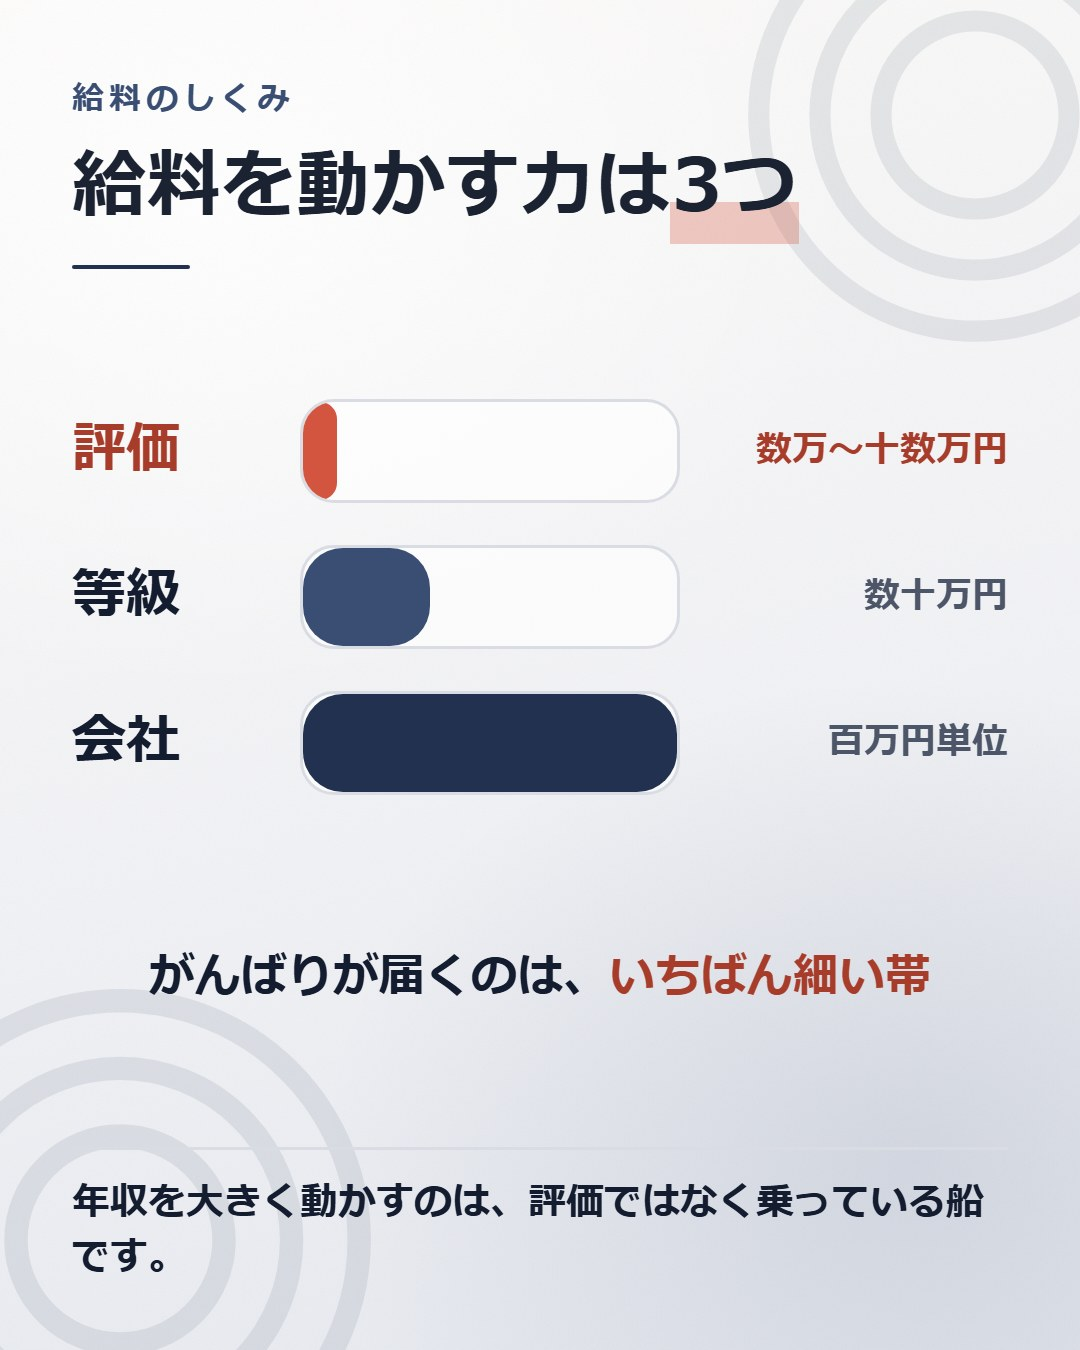
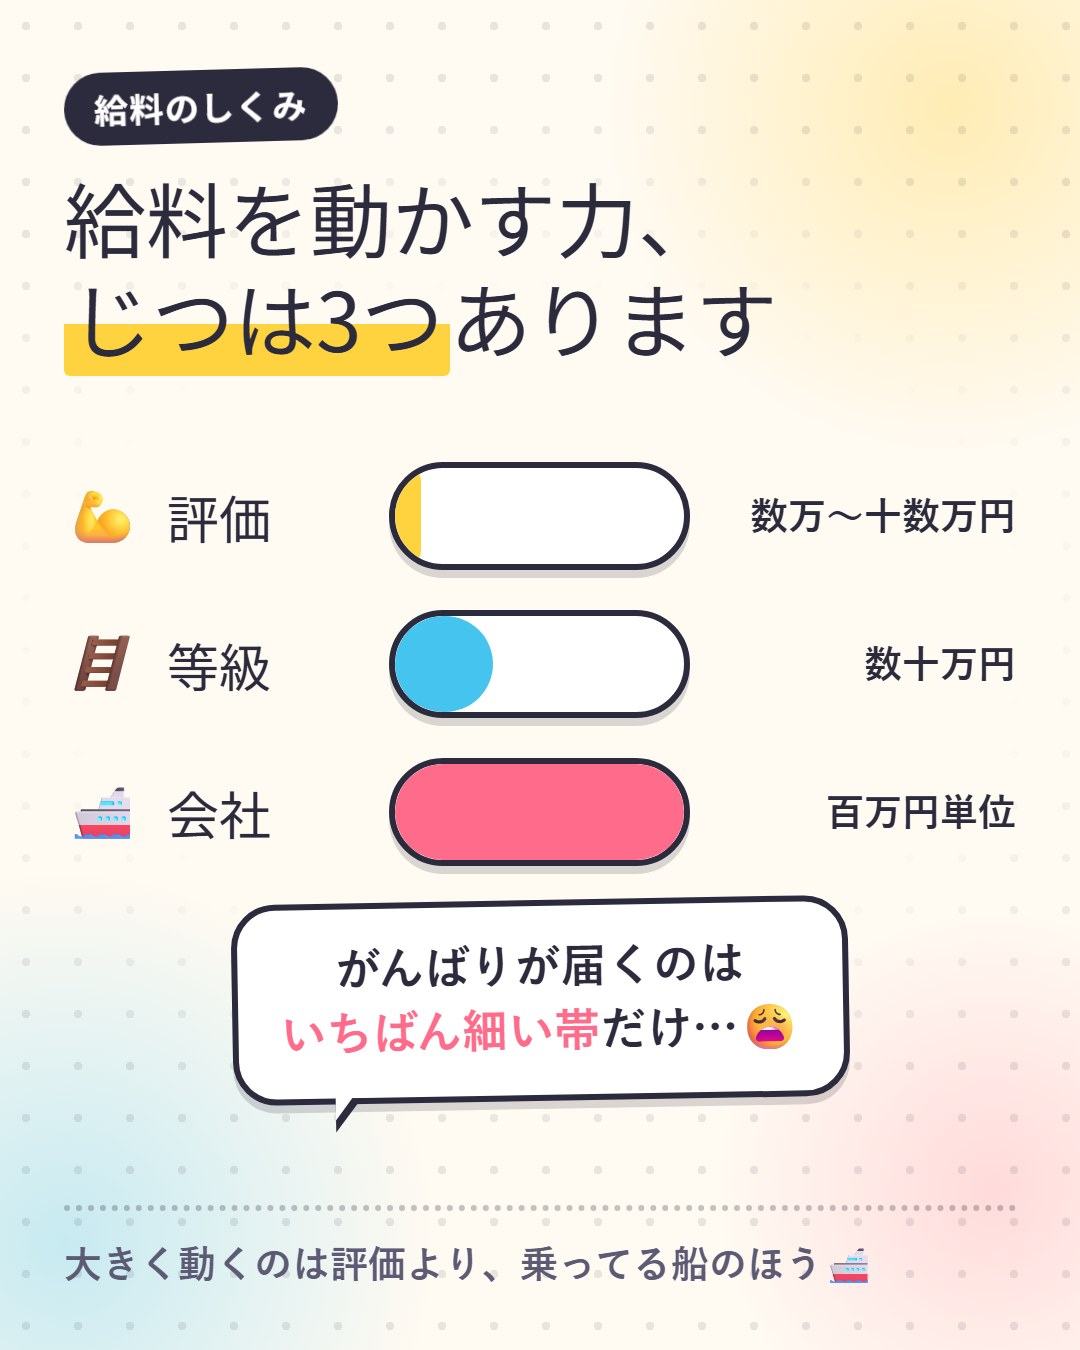
図解をポップ版に。記事の1枚目を「絵」、2枚目を「データ図」にした
本人指示（2026-09-28）
  「若者受けの良い図解にして、堅苦しくない、可愛いとか面白さを入れた図解で」
  「残業が連想される図解とか、給与明細を見てがっくりしている図解とか
    （絵に近いもの、文字がほとんど無くても良い）」

ターゲットを10代・20代に変更したことに合わせた変更。

・v3ポップ版のスタイルを追加（丸ゴシック／パステル＋原色／太枠のステッカー風／
  吹き出し／絵文字を大きく）。**最小文字30px以上は維持**（Threadsは288px幅で配信）
・絵を2枚を新規に描いた（すべて自作のSVG。外部の画像は使っていない）
    s1 残業 ―― 夜のオフィス・23時・ため息
    s2 明細 ―― 明細を見てがっくり・手取りの行だけ赤
・記事の1枚目を「絵」、2枚目を「データ図」にした
    → 投稿の画像は記事の最初の<img>を拾う仕組みなので、
      **投稿には絵が付き、記事には説明図が残る。**二重管理は増えない
・01（給料を動かす3つの力）をポップ版に置き換え

diff --git a/zangyoudai-no-keisan.html b/zangyoudai-no-keisan.html
@@ -9,8 +9,9 @@
 <p>残業代は、明細の数字が合っているかどうかを、自分で計算して確かめられます。</p>
 <p>もとになる時給は、月給を働いた時間で割った金額ではありません。分子からは、いくつかの手当が抜かれます。分母は、実際に働いた時間ではありません。</p>
 <p><strong>分子も分母も、法律で決まっています。</strong> 決まっているから、自分で同じ計算ができます。</p>
-<figure><img src="img/zukai_ryoyu_08_kakezan.jpg" alt="" loading="lazy"></figure>
+<figure><img src="img/zukai_ryoyu_s1_zangyou.jpg" alt="" loading="lazy"></figure>
 <h2>残業代は3つの掛け算でできている</h2>
+<figure><img src="img/zukai_ryoyu_08_kakezan.jpg" alt="" loading="lazy"></figure>
 <p>残業代は、次の3つを掛けた金額です。</p>
 <ul><li><strong>基礎時給</strong> ―― 割増のもとになる1時間あたりの金額</li><li><strong>残業した時間</strong></li><li><strong>割増率</strong> ―― 1.25 や 1.5 など</li></ul>
 <p>3つのうち、自分で確かめにくいのは基礎時給です。明細に基礎時給を印字している会社は多くありません。</p>

diff --git a/hyoujun-houshuu-getsugaku.html b/hyoujun-houshuu-getsugaku.html
@@ -9,8 +9,9 @@
 <p>毎年9月ごろ、額面は先月と同じなのに、手取りだけが変わる月があります。</p>
 <p>昇給したわけでも、残業が増えたわけでもありません。<strong>社会保険料の計算のもとになる数字が、9月に入れ替わっているから</strong>です。</p>
 <p>入れ替わる数字は、春に決まっています。</p>
-<figure><img src="img/zukai_ryoyu_10_teiji_kettei.jpg" alt="" loading="lazy"></figure>
+<figure><img src="img/zukai_ryoyu_s2_meisai.jpg" alt="" loading="lazy"></figure>
 <h2>保険料は、毎月の給料では決まっていない</h2>
+<figure><img src="img/zukai_ryoyu_10_teiji_kettei.jpg" alt="" loading="lazy"></figure>
 <p>健康保険料と厚生年金保険料は、その月の給料に料率を掛けて出すものではありません。</p>
 <p>使われるのは<strong>標準報酬月額</strong>という数字です。実際の給料を、階段状の区分にあてはめた金額です。</p>
 <p>区分の数は、2つの制度で違います。</p>
